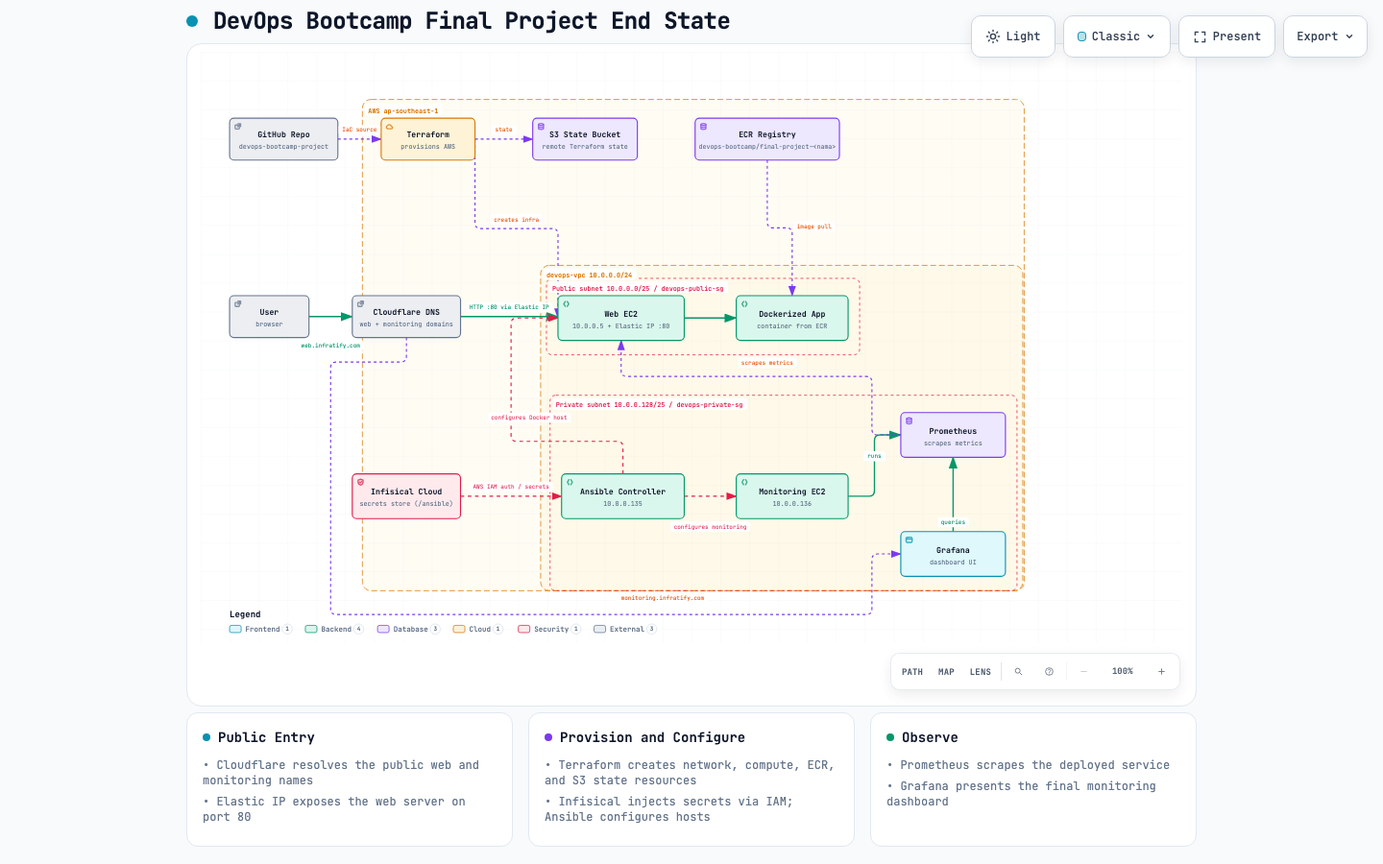
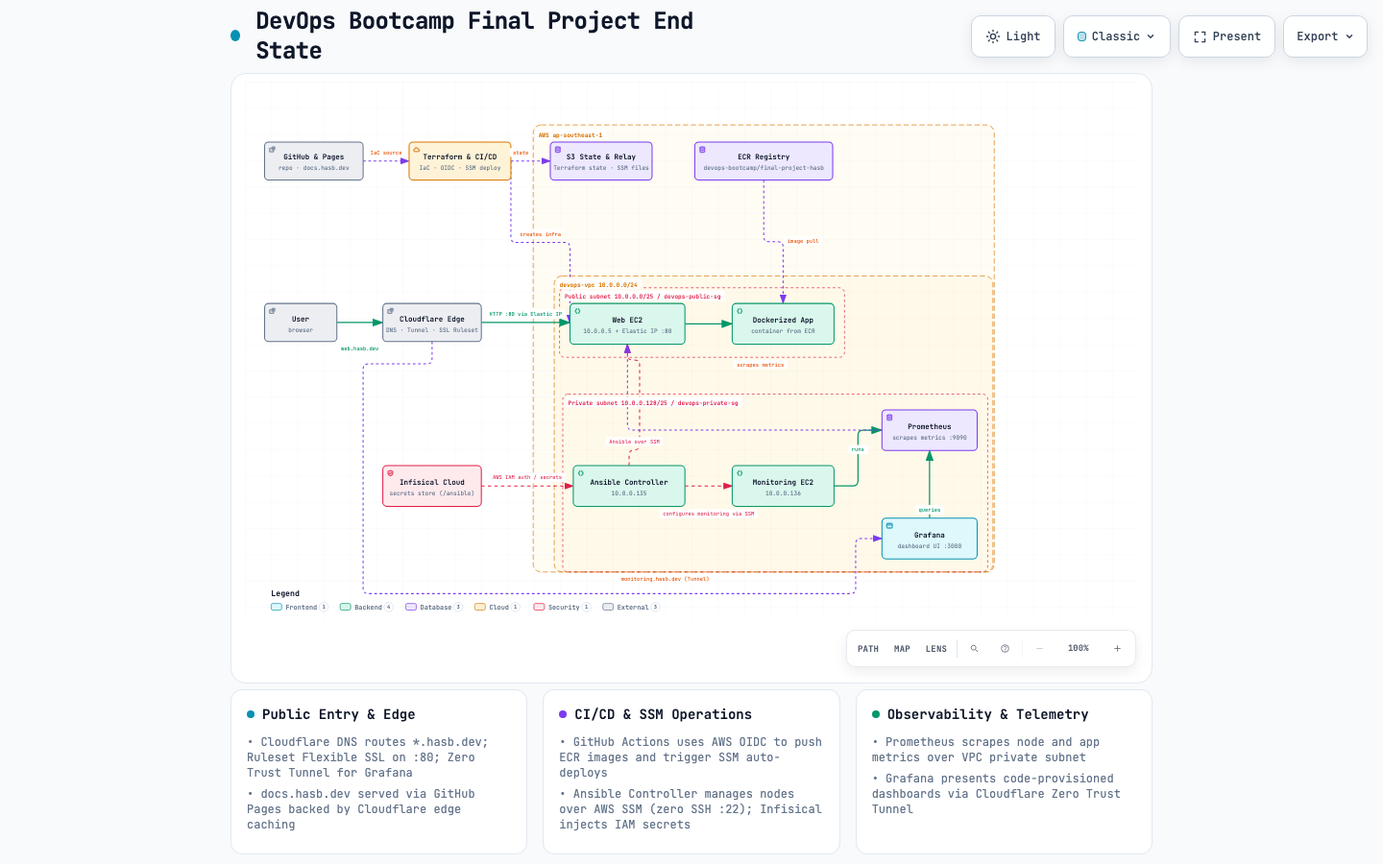
docs: align homepage preview assets with theme and refresh Archify architecture (#32)
### Summary of Changes

1. **Theme-Aware Homepage Preview Assets**
- Added pure CSS theme-switching rules in `docs/stylesheets/extra.css`
targeting MkDocs Material's `[data-md-color-scheme]`:
- `[data-md-color-scheme="default"] .only-dark { display: none
!important; }`
- `[data-md-color-scheme="slate"] .only-light { display: none
!important; }`
   - Wired `extra_css: [stylesheets/extra.css]` in `mkdocs.yml`.
- Updated `docs/index.md` to render stacked theme-aware alternatives for
both the Archify Architecture Blueprint and the End-State Topology
Summary preview cards with zero JavaScript.
- Added `docs/assets/end-state-topology-summary.light.svg` with white
container background and matching full-size click-through links.

2. **Archify Final-State Architecture Asset Refresh**
   - Refreshed `docs/assets/final-project-end-state.architecture.json`:
- Replaced legacy `infratify` domain names with current production
domains: `web.hasb.dev`, `monitoring.hasb.dev`, and `docs.hasb.dev`.
- Updated ECR repository label to `devops-bootcamp/final-project-hasb`.
     - Clarified Ansible over AWS SSM operations (zero SSH port 22).
- Represented GitHub Pages (`docs.hasb.dev`) and GitHub Actions delivery
in component metadata and detail cards.
- Documented Cloudflare edge routing, Flexible SSL Ruleset, and Zero
Trust Tunnel.
- Documented least-privilege IAM roles for Web, Monitoring, and
Controller.

3. **Boundary Layout Semantics**
[…]

diff --git a/docs/assets/final-project-end-state.html b/docs/assets/final-project-end-state.html
@@ -5030,7 +5030,7 @@
         <rect width="100%" height="100%" fill="url(#grid)" />
 
         <!-- Boundaries (behind everything) -->
-        <rect data-graph-role="structural-frame" data-composition-frame-kind="region" data-composition-frame-id="0" data-composition-frame-label="AWS ap-southeast-1" x="224" y="66" width="917" height="681" rx="12" class="c-region" stroke-width="1"/>
+        <rect data-graph-role="structural-frame" data-composition-frame-kind="region" data-composition-frame-id="0" data-composition-frame-label="AWS ap-southeast-1" x="439" y="66" width="702" height="681" rx="12" class="c-region" stroke-width="1"/>
 
         <rect data-graph-role="structural-frame" data-composition-frame-kind="region" data-composition-frame-id="1" data-composition-frame-label="devops-vpc 10.0.0.0/24" x="471" y="296" width="668" height="451" rx="12" class="c-region" stroke-width="1"/>
 
@@ -5039,91 +5039,91 @@
         <rect data-graph-role="structural-frame" data-composition-frame-kind="security-group" data-composition-frame-id="3" data-composition-frame-label="Private subnet 10.0.0.128/25 / devops-private-sg" x="484" y="476" width="647" height="271" rx="8" class="c-security-group" stroke-width="1"/>
 
         <!-- Connection paths (before components for correct z-order) -->
-        <path data-edge-from="user" data-edge-to="cloudflare" data-edge-label="web.infratify.com" data-edge-key="0" data-composition-points="150,367;210,367" d="M 150 367 L 210 367" class="a-emphasis" stroke-width="1.8" marker-end="url(#arrowhead-emphasis)"/>
+        <path data-edge-from="user" data-edge-to="cloudflare" data-edge-label="web.hasb.dev" data-edge-key="0" data-composition-points="140,367;210,367" d="M 140 367 L 210 367" class="a-emphasis" stroke-width="1.8" marker-end="url(#arrowhead-emphasis)"/>
         <path data-edge-from="cloudflare" data-edge-to="webec2" data-edge-label="HTTP :80 via Elastic IP" data-edge-key="1" data-composition-points="360,367;495,367" d="M 360 367 L 495 367" class="a-emphasis" stroke-width="1.8" marker-end="url(#arrowhead-emphasis)"/>
         <path data-edge-from="webec2" data-edge-to="app" data-edge-key="2" data-composition-points="670,369;742,369" d="M 670 369 L 742 369" class="a-emphasis" stroke-width="1.8" marker-end="url(#arrowhead-emphasis)"/>
-        <path data-edge-from="ecr" data-edge-to="app" data-edge-label="image pull" data-edge-key="3" data-composition-points="785,150;785,244;819.5,244;819.5,338" d="M 785 150 L 785 236 Q 785 244 793 244 L 811.5 244 Q 819.5 244 819.5 252 L 819.5 338" class="a-dashed" stroke-width="1.5" marker-end="url(#arrowhead-dashed)"/>
-        <path data-edge-from="github" data-edge-to="terraform" data-edge-label="IaC source" data-edge-key="4" data-composition-points="190,121;250,121" d="M 190 121 L 250 121" class="a-dashed" stroke-width="1.5" marker-end="url(#arrowhead-dashed)"/>
-        <path data-edge-from="terraform" data-edge-to="s3state" data-edge-label="state" data-edge-key="5" data-composition-points="380,121;460,121" d="M 380 121 L 460 121" class="a-dashed" stroke-width="1.5" marker-end="url(#arrowhead-dashed)"/>
-        <path data-edge-from="terraform" data-edge-to="webec2" data-edge-label="creates infra" data-edge-key="6" data-composition-points="380,121;380,245;495,245;495,369" d="M 380 121 L 380 237 Q 380 245 388 245 L 487 245 Q 495 245 495 253 L 495 369" class="a-dashed" stroke-width="1.5" marker-end="url(#arrowhead-dashed)"/>
-        <path data-edge-from="ansible" data-edge-to="webec2" data-edge-label="configures Docker host" data-edge-key="7" data-composition-points="585,585;585,540;430,540;430,369;495,369" d="M 585 585 L 585 548 Q 585 540 577 540 L 438 540 Q 430 540 430 532 L 430 377 Q 430 369 438 369 L 495 369" class="a-security" stroke-width="1.5" marker-end="url(#arrowhead-security)"/>
-        <path data-edge-from="ansible" data-edge-to="monitoring" data-edge-label="configures monitoring" data-edge-key="8" data-composition-points="670,616;742,616" d="M 670 616 L 742 616" class="a-security" stroke-width="1.5" marker-end="url(#arrowhead-security)"/>
+        <path data-edge-from="ecr" data-edge-to="app" data-edge-label="image pull" data-edge-key="3" data-composition-points="790,150;790,244;819.5,244;819.5,338" d="M 790 150 L 790 236 Q 790 244 798 244 L 811.5 244 Q 819.5 244 819.5 252 L 819.5 338" class="a-dashed" stroke-width="1.5" marker-end="url(#arrowhead-dashed)"/>
+        <path data-edge-from="github" data-edge-to="terraform" data-edge-label="IaC source" data-edge-key="4" data-composition-points="180,121;250,121" d="M 180 121 L 250 121" class="a-dashed" stroke-width="1.5" marker-end="url(#arrowhead-dashed)"/>
+        <path data-edge-from="terraform" data-edge-to="s3state" data-edge-label="state" data-edge-key="5" data-composition-points="405,121;465,121" d="M 405 121 L 465 121" class="a-dashed" stroke-width="1.5" marker-end="url(#arrowhead-dashed)"/>
+        <path data-edge-from="terraform" data-edge-to="webec2" data-edge-label="creates infra" data-edge-key="6" data-composition-points="405,121;405,245;495,245;495,369" d="M 405 121 L 405 237 Q 405 245 413 245 L 487 245 Q 495 245 495 253 L 495 369" class="a-dashed" stroke-width="1.5" marker-end="url(#arrowhead-dashed)"/>
+        <path data-edge-from="ansible" data-edge-to="webec2" data-edge-label="Ansible over SSM" data-edge-key="7" data-composition-points="585,585;585,561;601,561;601,424;582.5,424;582.5,400" d="M 585 585 L 585 569 Q 585 561 593 561 L 593 561 Q 601 561 601 553 L 601 432 Q 601 424 593 424 L 590.5 424 Q 582.5 424 582.5 416 L 582.5 400" class="a-security" stroke-width="1.5" marker-end="url(#arrowhead-security)"/>
+        <path data-edge-from="ansible" data-edge-to="monitoring" data-edge-label="configures monitoring via SSM" data-edge-key="8" data-composition-points="670,616;742,616" d="M 670 616 L 742 616" class="a-security" stroke-width="1.5" marker-end="url(#arrowhead-security)"/>
         <path data-edge-from="infisical" data-edge-to="ansible" data-edge-label="AWS IAM auth / secrets" data-edge-key="9" data-composition-points="360,616;500,616" d="M 360 616 L 500 616" class="a-security" stroke-width="1.5" marker-end="url(#arrowhead-security)"/>
         <path data-edge-from="monitoring" data-edge-to="prometheus" data-edge-label="runs" data-edge-key="10" data-composition-points="897,616;933.5,616;933.5,531;970,531" d="M 897 616 L 925.5 616 Q 933.5 616 933.5 608 L 933.5 539 Q 933.5 531 941.5 531 L 970 531" class="a-emphasis" stroke-width="1.8" marker-end="url(#arrowhead-emphasis)"/>
-        <path data-edge-from="prometheus" data-edge-to="webec2" data-edge-label="scrapes metrics" data-edge-key="11" data-composition-points="970,531;930,531;930,450;582.5,450;582.5,400" d="M 970 531 L 938 531 Q 930 531 930 523 L 930 458 Q 930 450 922 450 L 590.5 450 Q 582.5 450 582.5 442 L 582.5 400" class="a-dashed" stroke-width="1.5" marker-end="url(#arrowhead-dashed)"/>
+        <path data-edge-from="prometheus" data-edge-to="webec2" data-edge-label="scrapes metrics" data-edge-key="11" data-composition-points="970,531;582.5,531;582.5,400" d="M 970 531 L 590.5 531 Q 582.5 531 582.5 523 L 582.5 400" class="a-dashed" stroke-width="1.5" marker-end="url(#arrowhead-dashed)"/>
         <path data-edge-from="grafana" data-edge-to="prometheus" data-edge-label="queries" data-edge-key="12" data-composition-points="1042.5,665;1042.5,562" d="M 1042.5 665 L 1042.5 562" class="a-emphasis" stroke-width="1.8" marker-end="url(#arrowhead-emphasis)"/>
-        <path data-edge-from="cloudflare" data-edge-to="grafana" data-edge-label="monitoring.infratify.com" data-edge-key="13" data-composition-points="285,396;285,430;180,430;180,780;930,780;930,696;970,696" d="M 285 396 L 285 422 Q 285 430 277 430 L 188 430 Q 180 430 180 438 L 180 772 Q 180 780 188 780 L 922 780 Q 930 780 930 772 L 930 704 Q 930 696 938 696 L 970 696" class="a-dashed" stroke-width="1.5" marker-end="url(#arrowhead-dashed)"/>
+        <path data-edge-from="cloudflare" data-edge-to="grafana" data-edge-label="monitoring.hasb.dev (Tunnel)" data-edge-key="13" data-composition-points="285,396;285,430;180,430;180,780;930,780;930,696;970,696" d="M 285 396 L 285 422 Q 285 430 277 430 L 188 430 Q 180 430 180 438 L 180 772 Q 180 780 188 780 L 922 780 Q 930 780 930 772 L 930 704 Q 930 696 938 696 L 970 696" class="a-dashed" stroke-width="1.5" marker-end="url(#arrowhead-dashed)"/>
 
         <!-- Components -->
         <g id="node-user" data-node-id="user" data-node-label="User" tabindex="0" role="button" aria-label="Focus User, browser, Architecture component" aria-pressed="false" data-node-kind="external" data-node-sublabel="browser" data-node-context="Architecture component">
           <title>User · browser · Architecture component</title>
-          <rect x="40" y="338" width="110" height="58" rx="6" class="c-mask"/>
-          <rect x="40" y="338" width="110" height="58" rx="6" class="c-external" stroke-width="1.5"/>
-          <g aria-hidden="true" data-semantic-sigil="external" class="semantic-sigil s-external" transform="translate(46 344) scale(0.6875)">
+          <rect x="30" y="338" width="110" height="58" rx="6" class="c-mask"/>
+          <rect x="30" y="338" width="110" height="58" rx="6" class="c-external" stroke-width="1.5"/>
+          <g aria-hidden="true" data-semantic-sigil="external" class="semantic-sigil s-external" transform="translate(36 344) scale(0.6875)">
             <rect x="2.5" y="5" width="8.5" height="8" rx="1.5"/>
             <path d="M8 2.5h5.5V8M13.5 2.5 7.5 8.5"/>
           </g>
-          <text data-node-label="" data-detail-anchor="" x="95" y="365" class="t-primary" font-size="11" font-weight="600" text-anchor="middle">User</text>
-        <text data-detail="context" x="95" y="381" class="t-muted" font-size="9" text-anchor="middle">browser</text>
+          <text data-node-label="" data-detail-anchor="" x="85" y="365" class="t-primary" font-size="11" font-weight="600" text-anchor="middle">User</text>
+        <text data-detail="context" x="85" y="381" class="t-muted" font-size="9" text-anchor="middle">browser</text>
         </g>
 
-        <g id="node-cloudflare" data-node-id="cloudflare" data-node-label="Cloudflare DNS" tabindex="0" role="button" aria-label="Focus Cloudflare DNS, web + monitoring domains, Architecture component" aria-pressed="false" data-node-kind="external" data-node-sublabel="web + monitoring domains" data-node-context="Architecture component">
-          <title>Cloudflare DNS · web + monitoring domains · Architecture component</title>
+        <g id="node-cloudflare" data-node-id="cloudflare" data-node-label="Cloudflare Edge" tabindex="0" role="button" aria-label="Focus Cloudflare Edge, DNS · Tunnel · SSL Ruleset, Architecture component" aria-pressed="false" data-node-kind="external" data-node-sublabel="DNS · Tunnel · SSL Ruleset" data-node-context="Architecture component">
+          <title>Cloudflare Edge · DNS · Tunnel · SSL Ruleset · Architecture component</title>
           <rect x="210" y="338" width="150" height="58" rx="6" class="c-mask"/>
           <rect x="210" y="338" width="150" height="58" rx="6" class="c-external" stroke-width="1.5"/>
           <g aria-hidden="true" data-semantic-sigil="external" class="semantic-sigil s-external" transform="translate(216 344) scale(0.6875)">
             <rect x="2.5" y="5" width="8.5" height="8" rx="1.5"/>
             <path d="M8 2.5h5.5V8M13.5 2.5 7.5 8.5"/>
           </g>
-          <text data-node-label="" data-detail-anchor="" x="285" y="365" class="t-primary" font-size="11" font-weight="600" text-anchor="middle">Cloudflare DNS</text>
-        <text data-detail="context" x="285" y="381" class="t-muted" font-size="9" text-anchor="middle">web + monitoring domains</text>
+          <text data-node-label="" data-detail-anchor="" x="285" y="365" class="t-primary" font-size="11" font-weight="600" text-anchor="middle">Cloudflare Edge</text>
+        <text data-detail="context" x="285" y="381" class="t-muted" font-size="9" text-anchor="middle">DNS · Tunnel · SSL Ruleset</text>
         </g>
 
-        <g id="node-github" data-node-id="github" data-node-label="GitHub Repo" tabindex="0" role="button" aria-label="Focus GitHub Repo, devops-bootcamp-project, Architecture component" aria-pressed="false" data-node-kind="external" data-node-sublabel="devops-bootcamp-project" data-node-context="Architecture component">
-          <title>GitHub Repo · devops-bootcamp-project · Architecture component</title>
-          <rect x="40" y="92" width="150" height="58" rx="6" class="c-mask"/>
-          <rect x="40" y="92" width="150" height="58" rx="6" class="c-external" stroke-width="1.5"/>
-          <g aria-hidden="true" data-semantic-sigil="external" class="semantic-sigil s-external" transform="translate(46 98) scale(0.6875)">
+        <g id="node-github" data-node-id="github" data-node-label="GitHub &amp; Pages" tabindex="0" role="button" aria-label="Focus GitHub &amp; Pages, repo · docs.hasb.dev, Architecture component" aria-pressed="false" data-node-kind="external" data-node-sublabel="repo · docs.hasb.dev" data-node-context="Architecture component">
+          <title>GitHub &amp; Pages · repo · docs.hasb.dev · Architecture component</title>
+          <rect x="30" y="92" width="150" height="58" rx="6" class="c-mask"/>
+          <rect x="30" y="92" width="150" height="58" rx="6" class="c-external" stroke-width="1.5"/>
+          <g aria-hidden="true" data-semantic-sigil="external" class="semantic-sigil s-external" transform="translate(36 98) scale(0.6875)">
             <rect x="2.5" y="5" width="8.5" height="8" rx="1.5"/>
             <path d="M8 2.5h5.5V8M13.5 2.5 7.5 8.5"/>
           </g>
-          <text data-node-label="" data-detail-anchor="" x="115" y="119" class="t-primary" font-size="11" font-weight="600" text-anchor="middle">GitHub Repo</text>
-        <text data-detail="context" x="115" y="135" class="t-muted" font-size="9" text-anchor="middle">devops-bootcamp-project</text>
+          <text data-node-label="" data-detail-anchor="" x="105" y="119" class="t-primary" font-size="11" font-weight="600" text-anchor="middle">GitHub &amp; Pages</text>
+        <text data-detail="context" x="105" y="135" class="t-muted" font-size="9" text-anchor="middle">repo · docs.hasb.dev</text>
         </g>
 
-        <g id="node-terraform" data-node-id="terraform" data-node-label="Terraform" tabindex="0" role="button" aria-label="Focus Terraform, provisions AWS, AWS ap-southeast-1" aria-pressed="false" data-node-kind="cloud" data-node-sublabel="provisions AWS" data-node-context="AWS ap-southeast-1">
-          <title>Terraform · provisions AWS · AWS ap-southeast-1</title>
-          <rect x="250" y="92" width="130" height="58" rx="6" class="c-mask"/>
-          <rect x="250" y="92" width="130" height="58" rx="6" class="c-cloud" stroke-width="1.5"/>
+        <g id="node-terraform" data-node-id="terraform" data-node-label="Terraform &amp; CI/CD" tabindex="0" role="button" aria-label="Focus Terraform &amp; CI/CD, IaC · OIDC · SSM deploy, Architecture component" aria-pressed="false" data-node-kind="cloud" data-node-sublabel="IaC · OIDC · SSM deploy" data-node-context="Architecture component">
+          <title>Terraform &amp; CI/CD · IaC · OIDC · SSM deploy · Architecture component</title>
+          <rect x="250" y="92" width="155" height="58" rx="6" class="c-mask"/>
+          <rect x="250" y="92" width="155" height="58" rx="6" class="c-cloud" stroke-width="1.5"/>
           <g aria-hidden="true" data-semantic-sigil="cloud" class="semantic-sigil s-cloud" transform="translate(256 98) scale(0.6875)">
             <path d="M4.3 12.5h7.3a2.4 2.4 0 0 0 .2-4.8 4 4 0 0 0-7.5-1.3A3.1 3.1 0 0 0 4.3 12.5Z"/>
           </g>
-          <text data-node-label="" data-detail-anchor="" x="315" y="119" class="t-primary" font-size="11" font-weight="600" text-anchor="middle">Terraform</text>
-        <text data-detail="context" x="315" y="135" class="t-muted" font-size="9" text-anchor="middle">provisions AWS</text>
+          <text data-node-label="" data-detail-anchor="" x="327.5" y="119" class="t-primary" font-size="11" font-weight="600" text-anchor="middle">Terraform &amp; CI/CD</text>
+        <text data-detail="context" x="327.5" y="135" class="t-muted" font-size="9" text-anchor="middle">IaC · OIDC · SSM deploy</text>
         </g>
 
-        <g id="node-s3state" data-node-id="s3state" data-node-label="S3 State Bucket" tabindex="0" role="button" aria-label="Focus S3 State Bucket, remote Terraform state, AWS ap-southeast-1" aria-pressed="false" data-node-kind="database" data-node-sublabel="remote Terraform state" data-node-context="AWS ap-southeast-1">
-          <title>S3 State Bucket · remote Terraform state · AWS ap-southeast-1</title>
-          <rect x="460" y="92" width="145" height="58" rx="6" class="c-mask"/>
-          <rect x="460" y="92" width="145" height="58" rx="6" class="c-database" stroke-width="1.5"/>
-          <g aria-hidden="true" data-semantic-sigil="database" class="semantic-sigil s-database" transform="translate(466 98) scale(0.6875)">
+        <g id="node-s3state" data-node-id="s3state" data-node-label="S3 State &amp; Relay" tabindex="0" role="button" aria-label="Focus S3 State &amp; Relay, Terraform state · SSM files, AWS ap-southeast-1" aria-pressed="false" data-node-kind="database" data-node-sublabel="Terraform state · SSM files" data-node-context="AWS ap-southeast-1">
+          <title>S3 State &amp; Relay · Terraform state · SSM files · AWS ap-southeast-1</title>
+          <rect x="465" y="92" width="155" height="58" rx="6" class="c-mask"/>
+          <rect x="465" y="92" width="155" height="58" rx="6" class="c-database" stroke-width="1.5"/>
+          <g aria-hidden="true" data-semantic-sigil="database" class="semantic-sigil s-database" transform="translate(471 98) scale(0.6875)">
             <ellipse cx="8" cy="4" rx="5" ry="2"/>
             <path d="M3 4v8c0 1.1 2.2 2 5 2s5-.9 5-2V4M3 8c0 1.1 2.2 2 5 2s5-.9 5-2"/>
           </g>
-          <text data-node-label="" data-detail-anchor="" x="532.5" y="119" class="t-primary" font-size="11" font-weight="600" text-anchor="middle">S3 State Bucket</text>
-        <text data-detail="context" x="532.5" y="135" class="t-muted" font-size="9" text-anchor="middle">remote Terraform state</text>
+          <text data-node-label="" data-detail-anchor="" x="542.5" y="119" class="t-primary" font-size="11" font-weight="600" text-anchor="middle">S3 State &amp; Relay</text>
+        <text data-detail="context" x="542.5" y="135" class="t-muted" font-size="9" text-anchor="middle">Terraform state · SSM files</text>
         </g>
 
-        <g id="node-ecr" data-node-id="ecr" data-node-label="ECR Registry" tabindex="0" role="button" aria-label="Focus ECR Registry, devops-bootcamp/final-project-&lt;nama&gt;, AWS ap-southeast-1" aria-pressed="false" data-node-kind="database" data-node-sublabel="devops-bootcamp/final-project-&lt;nama&gt;" data-node-context="AWS ap-southeast-1">
-          <title>ECR Registry · devops-bootcamp/final-project-&lt;nama&gt; · AWS ap-southeast-1</title>
-          <rect x="685" y="92" width="200" height="58" rx="6" class="c-mask"/>
-          <rect x="685" y="92" width="200" height="58" rx="6" class="c-database" stroke-width="1.5"/>
+        <g id="node-ecr" data-node-id="ecr" data-node-label="ECR Registry" tabindex="0" role="button" aria-label="Focus ECR Registry, devops-bootcamp/final-project-hasb, AWS ap-southeast-1" aria-pressed="false" data-node-kind="database" data-node-sublabel="devops-bootcamp/final-project-hasb" data-node-context="AWS ap-southeast-1">
+          <title>ECR Registry · devops-bootcamp/final-project-hasb · AWS ap-southeast-1</title>
+          <rect x="685" y="92" width="210" height="58" rx="6" class="c-mask"/>
+          <rect x="685" y="92" width="210" height="58" rx="6" class="c-database" stroke-width="1.5"/>
           <g aria-hidden="true" data-semantic-sigil="database" class="semantic-sigil s-database" transform="translate(691 98) scale(0.6875)">
             <ellipse cx="8" cy="4" rx="5" ry="2"/>
             <path d="M3 4v8c0 1.1 2.2 2 5 2s5-.9 5-2V4M3 8c0 1.1 2.2 2 5 2s5-.9 5-2"/>
           </g>
-          <text data-node-label="" data-detail-anchor="" x="785" y="119" class="t-primary" font-size="11" font-weight="600" text-anchor="middle">ECR Registry</text>
-        <text data-detail="context" x="785" y="135" class="t-muted" font-size="8.8" text-anchor="middle">devops-bootcamp/final-project-&lt;nama&gt;</text>
+          <text data-node-label="" data-detail-anchor="" x="790" y="119" class="t-primary" font-size="11" font-weight="600" text-anchor="middle">ECR Registry</text>
+        <text data-detail="context" x="790" y="135" class="t-muted" font-size="9" text-anchor="middle">devops-bootcamp/final-project-hasb</text>
         </g>
 
         <g id="node-webec2" data-node-id="webec2" data-node-label="Web EC2" tabindex="0" role="button" aria-label="Focus Web EC2, 10.0.0.5 + Elastic IP :80, AWS ap-southeast-1 › devops-vpc 10.0.0.0/24 › Public subnet 10.0.0.0/25 / devops-public-sg" aria-pressed="false" data-node-kind="backend" data-node-sublabel="10.0.0.5 + Elastic IP :80" data-node-tag="public subnet" data-node-context="AWS ap-southeast-1 › devops-vpc 10.0.0.0/24 › Public subnet 10.0.0.0/25 / devops-public-sg">
@@ -5173,8 +5173,8 @@
         <text data-detail="fine" x="819.5" y="639" class="t-backend" font-size="7" text-anchor="middle">private subnet</text>
         </g>
 
-        <g id="node-prometheus" data-node-id="prometheus" data-node-label="Prometheus" tabindex="0" role="button" aria-label="Focus Prometheus, scrapes metrics, AWS ap-southeast-1 › devops-vpc 10.0.0.0/24 › Private subnet 10.0.0.128/25 / devops-private-sg" aria-pressed="false" data-node-kind="database" data-node-sublabel="scrapes metrics" data-node-context="AWS ap-southeast-1 › devops-vpc 10.0.0.0/24 › Private subnet 10.0.0.128/25 / devops-private-sg">
-          <title>Prometheus · scrapes metrics · AWS ap-southeast-1 › devops-vpc 10.0.0.0/24 › Private subnet 10.0.0.128/25 / devops-private-sg</title>
+        <g id="node-prometheus" data-node-id="prometheus" data-node-label="Prometheus" tabindex="0" role="button" aria-label="Focus Prometheus, scrapes metrics :9090, AWS ap-southeast-1 › devops-vpc 10.0.0.0/24 › Private subnet 10.0.0.128/25 / devops-private-sg" aria-pressed="false" data-node-kind="database" data-node-sublabel="scrapes metrics :9090" data-node-context="AWS ap-southeast-1 › devops-vpc 10.0.0.0/24 › Private subnet 10.0.0.128/25 / devops-private-sg">
+          <title>Prometheus · scrapes metrics :9090 · AWS ap-southeast-1 › devops-vpc 10.0.0.0/24 › Private subnet 10.0.0.128/25 / devops-private-sg</title>
           <rect x="970" y="500" width="145" height="62" rx="6" class="c-mask"/>
           <rect x="970" y="500" width="145" height="62" rx="6" class="c-database" stroke-width="1.5"/>
           <g aria-hidden="true" data-semantic-sigil="database" class="semantic-sigil s-database" transform="translate(976 506) scale(0.6875)">
@@ -5182,11 +5182,11 @@
             <path d="M3 4v8c0 1.1 2.2 2 5 2s5-.9 5-2V4M3 8c0 1.1 2.2 2 5 2s5-.9 5-2"/>
           </g>
           <text data-node-label="" data-detail-anchor="" x="1042.5" y="529" class="t-primary" font-size="11" font-weight="600" text-anchor="middle">Prometheus</text>
-        <text data-detail="context" x="1042.5" y="545" class="t-muted" font-size="9" text-anchor="middle">scrapes metrics</text>
+        <text data-detail="context" x="1042.5" y="545" class="t-muted" font-size="9" text-anchor="middle">scrapes metrics :9090</text>
         </g>
 
-        <g id="node-grafana" data-node-id="grafana" data-node-label="Grafana" tabindex="0" role="button" aria-label="Focus Grafana, dashboard UI, AWS ap-southeast-1 › devops-vpc 10.0.0.0/24 › Private subnet 10.0.0.128/25 / devops-private-sg" aria-pressed="false" data-node-kind="frontend" data-node-sublabel="dashboard UI" data-node-context="AWS ap-southeast-1 › devops-vpc 10.0.0.0/24 › Private subnet 10.0.0.128/25 / devops-private-sg">
-          <title>Grafana · dashboard UI · AWS ap-southeast-1 › devops-vpc 10.0.0.0/24 › Private subnet 10.0.0.128/25 / devops-private-sg</title>
+        <g id="node-grafana" data-node-id="grafana" data-node-label="Grafana" tabindex="0" role="button" aria-label="Focus Grafana, dashboard UI :3000, AWS ap-southeast-1 › devops-vpc 10.0.0.0/24 › Private subnet 10.0.0.128/25 / devops-private-sg" aria-pressed="false" data-node-kind="frontend" data-node-sublabel="dashboard UI :3000" data-node-context="AWS ap-southeast-1 › devops-vpc 10.0.0.0/24 › Private subnet 10.0.0.128/25 / devops-private-sg">
+          <title>Grafana · dashboard UI :3000 · AWS ap-southeast-1 › devops-vpc 10.0.0.0/24 › Private subnet 10.0.0.128/25 / devops-private-sg</title>
           <rect x="970" y="665" width="145" height="62" rx="6" class="c-mask"/>
           <rect x="970" y="665" width="145" height="62" rx="6" class="c-frontend" stroke-width="1.5"/>
           <g aria-hidden="true" data-semantic-sigil="frontend" class="semantic-sigil s-frontend" transform="translate(976 671) scale(0.6875)">
@@ -5196,7 +5196,7 @@
             <circle cx="6.3" cy="4.8" r=".7" class="sigil-fill"/>
           </g>
           <text data-node-label="" data-detail-anchor="" x="1042.5" y="694" class="t-primary" font-size="11" font-weight="600" text-anchor="middle">Grafana</text>
-        <text data-detail="context" x="1042.5" y="710" class="t-muted" font-size="9" text-anchor="middle">dashboard UI</text>
+        <text data-detail="context" x="1042.5" y="710" class="t-muted" font-size="9" text-anchor="middle">dashboard UI :3000</text>
         </g>
 
         <g id="node-infisical" data-node-id="infisical" data-node-label="Infisical Cloud" tabindex="0" role="button" aria-label="Focus Infisical Cloud, secrets store (/ansible), Architecture component" aria-pressed="false" data-node-kind="security" data-node-sublabel="secrets store (/ansible)" data-node-context="Architecture component">
@@ -5212,9 +5212,9 @@
         </g>
 
         <!-- Connection labels -->
-        <g data-detail="context" data-edge-from="user" data-edge-to="cloudflare" data-edge-label="web.infratify.com" data-edge-key="0">
-          <rect x="134.2" y="400" width="91.6" height="14" rx="3" class="c-mask"/>
-          <text x="180" y="410" class="t-backend" font-size="8" text-anchor="middle">web.infratify.com</text>
+        <g data-detail="context" data-edge-from="user" data-edge-to="cloudflare" data-edge-label="web.hasb.dev" data-edge-key="0">
+          <rect x="141.2" y="400" width="67.6" height="14" rx="3" class="c-mask"/>
+          <text x="175" y="410" class="t-backend" font-size="8" text-anchor="middle">web.hasb.dev</text>
         </g>
         <g data-detail="context" data-edge-from="cloudflare" data-edge-to="webec2" data-edge-label="HTTP :80 via Elastic IP" data-edge-key="1">
           <rect x="367.3" y="347" width="120.39999999999999" height="14" rx="3" class="c-mask"/>
@@ -5226,24 +5226,24 @@
           <text x="850" y="245" class="t-messagebus" font-size="8" text-anchor="middle">image pull</text>
         </g>
         <g data-detail="context" data-edge-from="github" data-edge-to="terraform" data-edge-label="IaC source" data-edge-key="4">
-          <rect x="191" y="101" width="58" height="14" rx="3" class="c-mask"/>
-          <text x="220" y="111" class="t-messagebus" font-size="8" text-anchor="middle">IaC source</text>
+          <rect x="186" y="101" width="58" height="14" rx="3" class="c-mask"/>
+          <text x="215" y="111" class="t-messagebus" font-size="8" text-anchor="middle">IaC source</text>
         </g>
         <g data-detail="context" data-edge-from="terraform" data-edge-to="s3state" data-edge-label="state" data-edge-key="5">
           <rect x="403" y="101" width="34" height="14" rx="3" class="c-mask"/>
           <text x="420" y="111" class="t-messagebus" font-size="8" text-anchor="middle">state</text>
         </g>
         <g data-detail="context" data-edge-from="terraform" data-edge-to="webec2" data-edge-label="creates infra" data-edge-key="6">
-          <rect x="401.3" y="225" width="72.4" height="14" rx="3" class="c-mask"/>
-          <text x="437.5" y="235" class="t-messagebus" font-size="8" text-anchor="middle">creates infra</text>
+          <rect x="413.8" y="225" width="72.4" height="14" rx="3" class="c-mask"/>
+          <text x="450" y="235" class="t-messagebus" font-size="8" text-anchor="middle">creates infra</text>
         </g>
-        <g data-detail="context" data-edge-from="ansible" data-edge-to="webec2" data-edge-label="configures Docker host" data-edge-key="7">
-          <rect x="397.2" y="500" width="115.6" height="14" rx="3" class="c-mask"/>
-          <text x="455" y="510" class="t-security" font-size="8" text-anchor="middle">configures Docker host</text>
+        <g data-detail="context" data-edge-from="ansible" data-edge-to="webec2" data-edge-label="Ansible over SSM" data-edge-key="7">
+          <rect x="549.6" y="541" width="86.8" height="14" rx="3" class="c-mask"/>
+          <text x="593" y="551" class="t-security" font-size="8" text-anchor="middle">Ansible over SSM</text>
         </g>
-        <g data-detail="context" data-edge-from="ansible" data-edge-to="monitoring" data-edge-label="configures monitoring" data-edge-key="8">
-          <rect x="650.6" y="651" width="110.8" height="14" rx="3" class="c-mask"/>
-          <text x="706" y="661" class="t-security" font-size="8" text-anchor="middle">configures monitoring</text>
+        <g data-detail="context" data-edge-from="ansible" data-edge-to="monitoring" data-edge-label="configures monitoring via SSM" data-edge-key="8">
+          <rect x="631.4" y="651" width="149.2" height="14" rx="3" class="c-mask"/>
+          <text x="706" y="661" class="t-security" font-size="8" text-anchor="middle">configures monitoring via SSM</text>
         </g>
         <g data-detail="context" data-edge-from="infisical" data-edge-to="ansible" data-edge-label="AWS IAM auth / secrets" data-edge-key="9">
           <rect x="372.2" y="596" width="115.6" height="14" rx="3" class="c-mask"/>
@@ -5261,15 +5261,15 @@
           <rect x="1020.7" y="645" width="43.6" height="14" rx="3" class="c-mask"/>
           <text x="1042.5" y="655" class="t-backend" font-size="8" text-anchor="middle">queries</text>
         </g>
-        <g data-detail="context" data-edge-from="cloudflare" data-edge-to="grafana" data-edge-label="monitoring.infratify.com" data-edge-key="13">
-          <rect x="577.4" y="750" width="125.19999999999999" height="14" rx="3" class="c-mask"/>
-          <text x="640" y="760" class="t-messagebus" font-size="8" text-anchor="middle">monitoring.infratify.com</text>
+        <g data-detail="context" data-edge-from="cloudflare" data-edge-to="grafana" data-edge-label="monitoring.hasb.dev (Tunnel)" data-edge-key="13">
+          <rect x="567.8" y="750" width="144.4" height="14" rx="3" class="c-mask"/>
+          <text x="640" y="760" class="t-messagebus" font-size="8" text-anchor="middle">monitoring.hasb.dev (Tunnel)</text>
         </g>
 
         <!-- Boundary labels (foreground masks keep routes out of titles) -->
         <g data-graph-role="structural-frame-label" data-composition-frame-id="0" data-composition-frame-kind="region" data-composition-frame-label="AWS ap-southeast-1">
-          <rect data-graph-role="structural-frame-label-mask" x="228" y="72" width="107.2" height="16" rx="3" class="c-mask"/>
-          <text data-boundary-label="" x="232" y="85" class="t-cloud" font-size="9" font-weight="600">AWS ap-southeast-1</text>
+          <rect data-graph-role="structural-frame-label-mask" x="443" y="72" width="107.2" height="16" rx="3" class="c-mask"/>
+          <text data-boundary-label="" x="447" y="85" class="t-cloud" font-size="9" font-weight="600">AWS ap-southeast-1</text>
         </g>
 
         <g data-graph-role="structural-frame-label" data-composition-frame-id="1" data-composition-frame-kind="region" data-composition-frame-label="devops-vpc 10.0.0.0/24">
@@ -5504,33 +5504,33 @@
       <div class="card">
         <div class="card-header">
           <div class="card-dot cyan"></div>
-          <h3>Public Entry</h3>
+          <h3>Public Entry &amp; Edge</h3>
         </div>
         <ul>
-          <li>&bull; Cloudflare resolves the public web and monitoring names</li>
-          <li>&bull; Elastic IP exposes the web server on port 80</li>
+          <li>&bull; Cloudflare DNS routes *.hasb.dev; Ruleset Flexible SSL on :80; Zero Trust Tunnel for Grafana</li>
+          <li>&bull; docs.hasb.dev served via GitHub Pages backed by Cloudflare edge caching</li>
         </ul>
       </div>
 
       <div class="card">
         <div class="card-header">
           <div class="card-dot violet"></div>
-          <h3>Provision and Configure</h3>
+          <h3>CI/CD &amp; SSM Operations</h3>
         </div>
         <ul>
-          <li>&bull; Terraform creates network, compute, ECR, and S3 state resources</li>
-          <li>&bull; Infisical injects secrets via IAM; Ansible configures hosts</li>
+          <li>&bull; GitHub Actions uses AWS OIDC to push ECR images and trigger SSM auto-deploys</li>
+          <li>&bull; Ansible Controller manages nodes over AWS SSM (zero SSH :22); Infisical injects IAM secrets</li>
         </ul>
       </div>
 
       <div class="card">
         <div class="card-header">
           <div class="card-dot emerald"></div>
-          <h3>Observe</h3>
+          <h3>Observability &amp; Telemetry</h3>
         </div>
         <ul>
-          <li>&bull; Prometheus scrapes the deployed service</li>
-          <li>&bull; Grafana presents the final monitoring dashboard</li>
+          <li>&bull; Prometheus scrapes node and app metrics over VPC private subnet</li>
+          <li>&bull; Grafana presents code-provisioned dashboards via Cloudflare Zero Trust Tunnel</li>
         </ul>
       </div>
     </div>

diff --git a/docs/stylesheets/extra.css b/docs/stylesheets/extra.css
@@ -1,0 +1,8 @@
+/* Theme-aware asset switching without JavaScript */
+[data-md-color-scheme="default"] .only-dark {
+  display: none !important;
+}
+
+[data-md-color-scheme="slate"] .only-light {
+  display: none !important;
+}

diff --git a/docs/index.md b/docs/index.md
@@ -56,7 +56,8 @@ This documentation covers the end-to-end cloud infrastructure, Zero-Trust networ
 
 <div style="margin: 1.25rem 0 2rem; text-align: center;">
   <a href="assets/final-project-end-state.html" target="_blank" rel="noopener" style="display: block; max-width: 860px; margin: 0 auto; border-radius: 8px; overflow: hidden; border: 1px solid var(--md-default-fg-color--lightest); box-shadow: 0 4px 16px rgba(0,0,0,0.2); transition: transform 0.2s ease, box-shadow 0.2s ease;">
-    <img src="assets/final-project-end-state.visual-check.1440x900.dark.png" alt="DevOps Platform End-State Architecture Blueprint" style="width: 100%; max-height: 400px; object-fit: cover; object-position: top center; display: block;" />
+    <img class="only-dark" src="assets/final-project-end-state.visual-check.1440x900.dark.png" alt="DevOps Platform End-State Architecture Blueprint" style="width: 100%; max-height: 400px; object-fit: cover; object-position: top center; display: block;" />
+    <img class="only-light" src="assets/final-project-end-state.visual-check.1440x900.light.png" alt="DevOps Platform End-State Architecture Blueprint" style="width: 100%; max-height: 400px; object-fit: cover; object-position: top center; display: block;" />
   </a>
   <div style="margin-top: 1rem;">
     <a href="assets/final-project-end-state.html" target="_blank" rel="noopener" class="md-button md-button--primary">
@@ -70,11 +71,17 @@ This documentation covers the end-to-end cloud infrastructure, Zero-Trust networ
 ### End-State Topology Summary
 
 <div style="margin: 1.25rem 0 2rem; text-align: center;">
-  <a href="assets/end-state-topology-summary.svg" target="_blank" rel="noopener" style="display: block; max-width: 860px; margin: 0 auto; border-radius: 8px; overflow: hidden; border: 1px solid var(--md-default-fg-color--lightest); background: #0d1117; box-shadow: 0 4px 16px rgba(0,0,0,0.2); padding: 0.75rem; transition: transform 0.2s ease, box-shadow 0.2s ease;">
+  <a href="assets/end-state-topology-summary.svg" class="only-dark" target="_blank" rel="noopener" style="display: block; max-width: 860px; margin: 0 auto; border-radius: 8px; overflow: hidden; border: 1px solid var(--md-default-fg-color--lightest); background: #0d1117; box-shadow: 0 4px 16px rgba(0,0,0,0.2); padding: 0.75rem; transition: transform 0.2s ease, box-shadow 0.2s ease;">
     <img src="assets/end-state-topology-summary.svg" alt="DevOps Platform End-State Topology Summary" style="width: 100%; max-height: 420px; object-fit: contain; display: block; margin: 0 auto;" />
   </a>
+  <a href="assets/end-state-topology-summary.light.svg" class="only-light" target="_blank" rel="noopener" style="display: block; max-width: 860px; margin: 0 auto; border-radius: 8px; overflow: hidden; border: 1px solid var(--md-default-fg-color--lightest); background: #ffffff; box-shadow: 0 4px 16px rgba(0,0,0,0.08); padding: 0.75rem; transition: transform 0.2s ease, box-shadow 0.2s ease;">
+    <img src="assets/end-state-topology-summary.light.svg" alt="DevOps Platform End-State Topology Summary" style="width: 100%; max-height: 420px; object-fit: contain; display: block; margin: 0 auto;" />
+  </a>
   <div style="margin-top: 1rem;">
-    <a href="assets/end-state-topology-summary.svg" target="_blank" rel="noopener" class="md-button">
+    <a href="assets/end-state-topology-summary.svg" class="only-dark md-button" target="_blank" rel="noopener">
+      Open Topology Summary Full Size →
+    </a>
+    <a href="assets/end-state-topology-summary.light.svg" class="only-light md-button" target="_blank" rel="noopener">
       Open Topology Summary Full Size →
     </a>
   </div>
